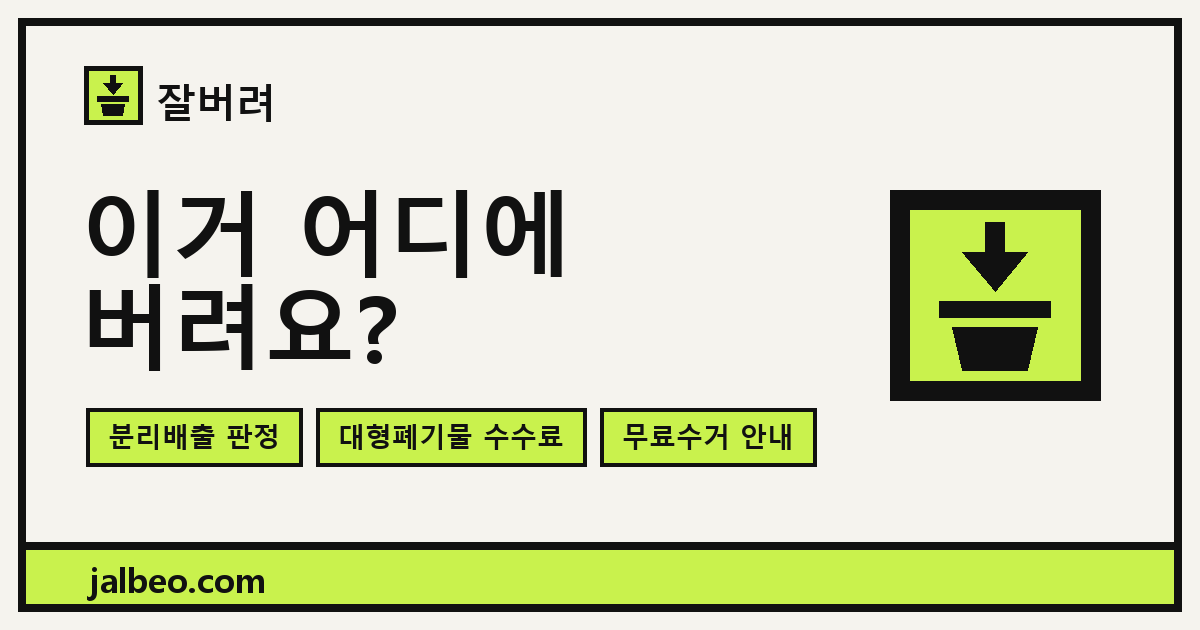
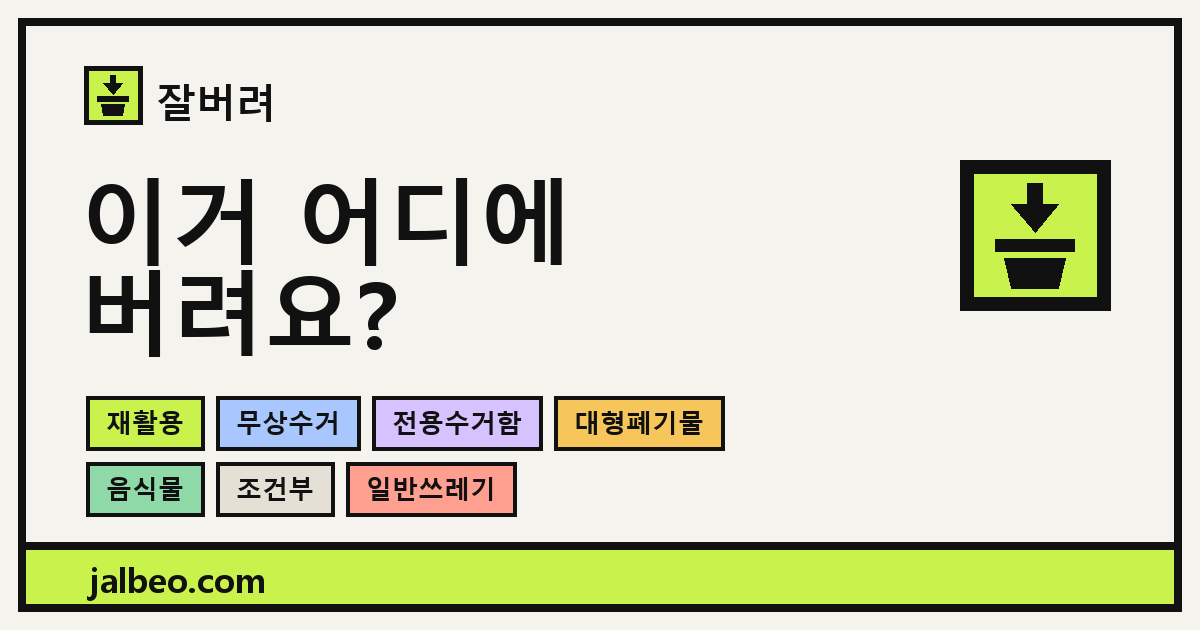
feat: 공유 카드 배지를 판정 7종으로, 푸터 링크 굵기 500
기능을 설명하는 알약 셋("분리배출 판정" 등)은 이 사이트가 아니어도 되는 말이라
아무 것도 못 박지 못했다. 대신 어떤 답이 나오는지를 판정 배지로 늘어놓는다.
색과 순서는 site/src/lib/verdict.ts 그대로여서, 눌러 들어온 사람이 처음 보는
화면과 카드가 이어진다.

푸터 링크는 700이 이미 bold라 굵기 차이가 안 났다. 본문 링크를 500으로 낮춰
개인정보처리방침(800)만 도드라지게 한다.

diff --git a/scripts/build_brand_assets.py b/scripts/build_brand_assets.py
@@ -33,6 +33,18 @@ INK = (17, 17, 17)
 LIME = (201, 242, 77)
 FAINT = (107, 104, 98)
 
+# 사이트의 판정 색과 순서를 그대로 쓴다 (site/src/lib/verdict.ts).
+# 카드에서만 다른 색을 쓰면 들어와서 처음 보는 화면과 어긋난다.
+VERDICTS = [
+    ("재활용", (201, 242, 77)),
+    ("무상수거", (169, 199, 255)),
+    ("전용수거함", (213, 194, 255)),
+    ("대형폐기물", (247, 198, 90)),
+    ("음식물", (143, 217, 168)),
+    ("조건부", (228, 224, 214)),
+    ("일반쓰레기", (255, 159, 143)),
+]
+
 FONT_BOLD = r"C:\Windows\Fonts\malgunbd.ttf"
 FONT_REG = r"C:\Windows\Fonts\malgun.ttf"
 
@@ -75,12 +87,12 @@ def build_icons():
     return made
 
 
-def chip(d, x, y, text, f):
-    """라임 알약. 사이트의 배지와 같은 문법이다 - 라운드 없음, 굵은 테두리."""
+def chip(d, x, y, text, f, fill):
+    """판정 배지. 사이트의 배지와 같은 문법이다 - 라운드 없음, 굵은 테두리."""
     box = d.textbbox((0, 0), text, font=f)
     w = box[2] - box[0]
-    pad_x, h = 22, 58
-    d.rectangle([x, y, x + w + pad_x * 2, y + h], fill=LIME, outline=INK, width=4)
+    pad_x, h = 20, 54
+    d.rectangle([x, y, x + w + pad_x * 2, y + h], fill=fill, outline=INK, width=4)
     d.text((x + pad_x - box[0], y + h / 2 - (box[3] + box[1]) / 2), text, font=f, fill=INK)
     return x + w + pad_x * 2
 
@@ -88,8 +100,9 @@ def chip(d, x, y, text, f):
 def build_og():
     """공유 카드. 링크를 받은 사람이 3초 안에 '나한테 쓸모 있나'를 판단하게 한다.
 
-    그래서 브랜드 이름이 아니라 사용자의 질문을 제일 크게 놓고, 무엇을
-    알려주는지를 알약 세 개로 못 박는다.
+    그래서 브랜드 이름이 아니라 사용자의 질문을 제일 크게 놓고, 어떤 답이
+    나오는지를 판정 배지로 늘어놓는다. 색과 순서는 사이트와 같아서, 눌러 들어온
+    사람이 처음 보는 화면과 카드가 이어진다.
     """
     W, H = 1200, 630
     img = Image.new("RGB", (W, H), PAPER)
@@ -102,15 +115,18 @@ def build_og():
     draw_mark(img, 84, 66, 58)
     d.text((156, 74), "잘버려", font=font(FONT_BOLD, 40), fill=INK)
 
-    d.text((80, 168), "이거 어디에", font=font(FONT_BOLD, 92), fill=INK)
-    d.text((80, 262), "버려요?", font=font(FONT_BOLD, 92), fill=INK)
+    d.text((80, 156), "이거 어디에", font=font(FONT_BOLD, 92), fill=INK)
+    d.text((80, 248), "버려요?", font=font(FONT_BOLD, 92), fill=INK)
 
-    f = font(FONT_BOLD, 27)
-    x = 86
-    for text in ("분리배출 판정", "대형폐기물 수수료", "무료수거 안내"):
-        x = chip(d, x, 408, text, f) + 14
+    # 판정 배지 두 줄. 첫 줄에 자주 나오는 것부터 놓는다
+    f = font(FONT_BOLD, 26)
+    rows = (VERDICTS[:4], VERDICTS[4:])
+    for i, row in enumerate(rows):
+        x = 86
+        for text, fill in row:
+            x = chip(d, x, 396 + i * 66, text, f, fill) + 12
 
-    draw_mark(img, 890, 190, 210)
+    draw_mark(img, 960, 160, 150)
 
     # 하단 라임 띠. 미리보기가 잘려도 브랜드 색과 주소는 남는다
     d.rectangle([18, H - 88, W - 19, H - 19], fill=LIME)
